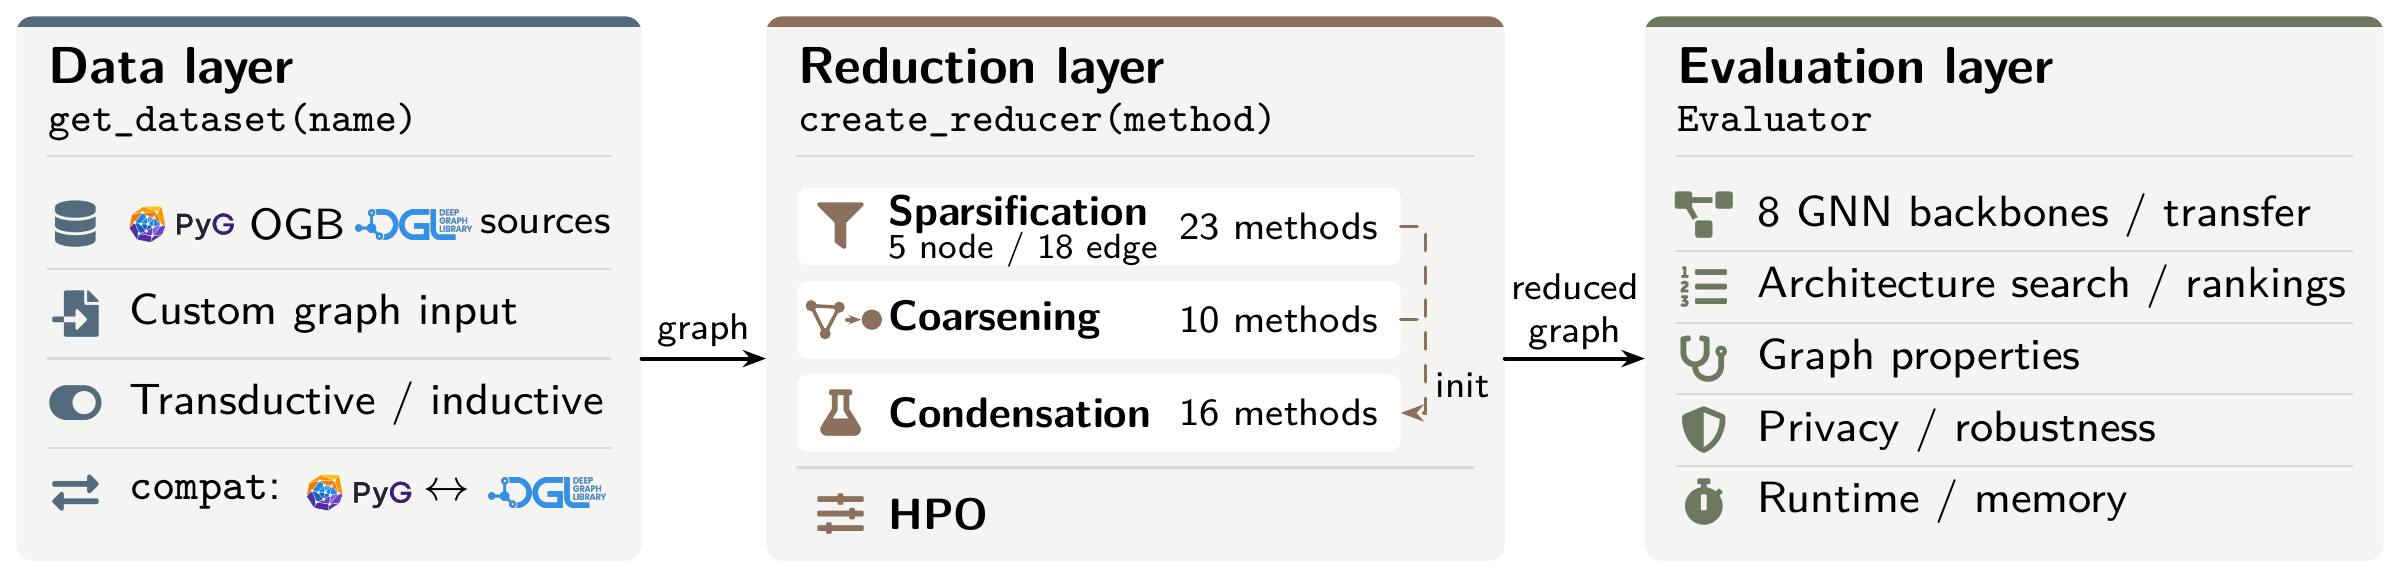
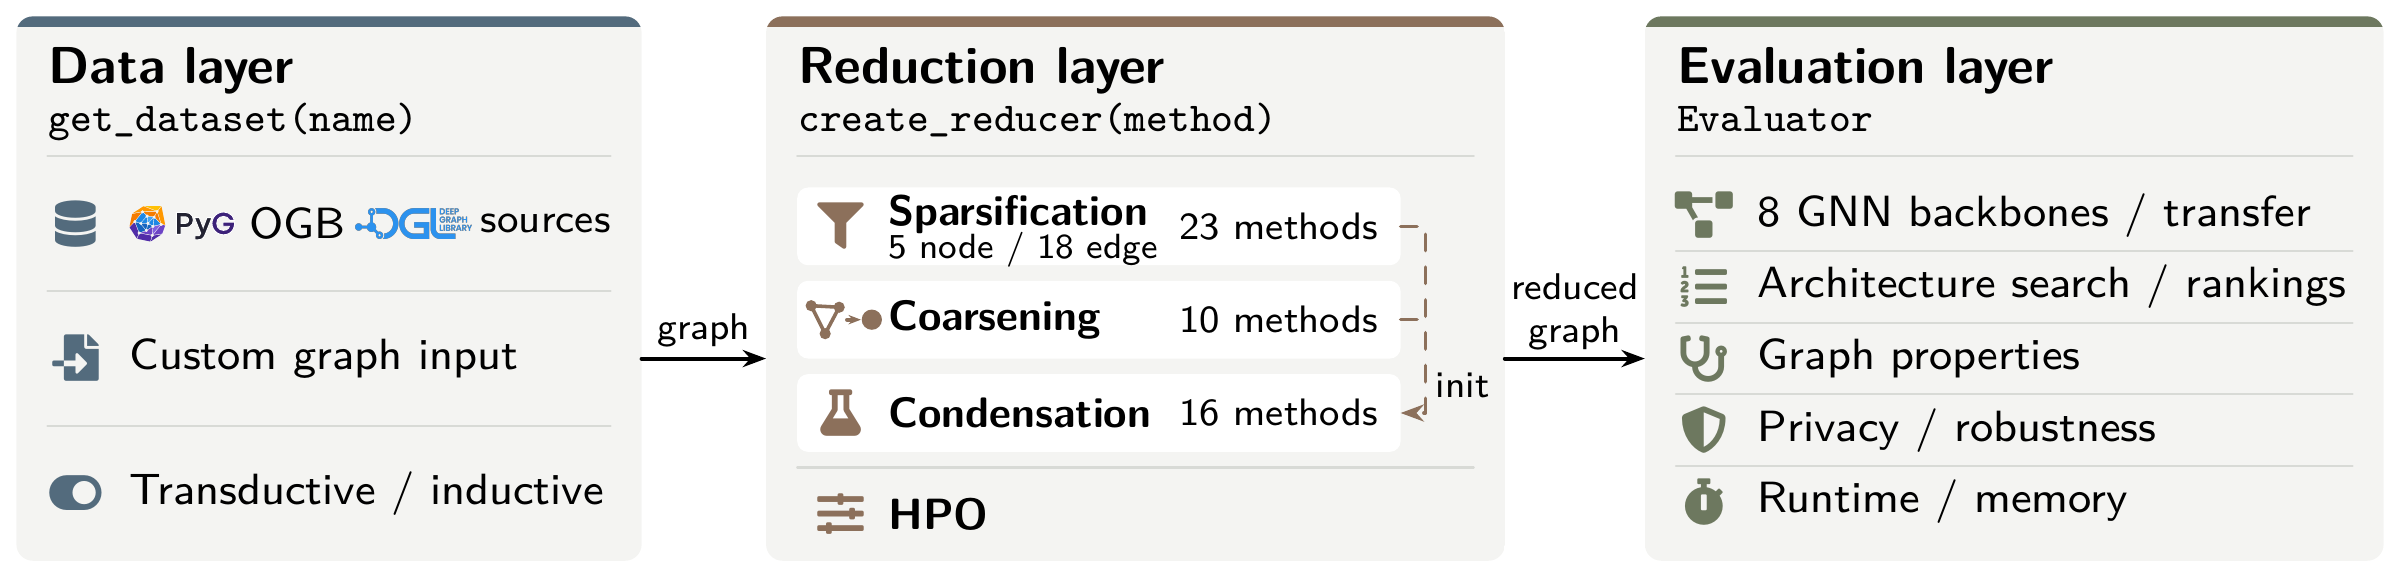
Remove the compatibility row from Figure 1

Changed region(s): [[0.0, 0.4983, 0.25, 0.7785], [0.0312, 0.3426, 0.25, 0.4671], [0.0, 0.8097, 0.25, 0.9031]]

diff --git a/figures/figure1_architecture.tex b/figures/figure1_architecture.tex
@@ -53,25 +53,20 @@
 \node[title] at (10.67,3.07) {Evaluation layer};
 \node[api] at (10.67,2.76) {Evaluator};
 
-% Data services: one pictogram per row on a shared grid.
-\foreach \yy in {1.875,1.3,.725} {
+% Data services: three evenly spaced rows.
+\foreach \yy in {1.7333,.8667} {
   \draw[gsRule,line width=.4pt] (.2,\yy) -- (3.82,\yy);
 }
-\node[ico,text=gsData] at (.38,2.1625) {\faIcon{database}};
+\node[ico,text=gsData] at (.38,2.1667) {\faIcon{database}};
 % Official wordmarks replace framework names; retain their original colors.
-\node[rowtext] at (.72,2.1625) {\includegraphics[width=.68cm]{\gsLogoPath/pyg.pdf}};
-\node[rowtext] at (1.49,2.1625) {OGB};
-\node[rowtext] at (2.17,2.1625) {\includegraphics[width=.75cm]{\gsLogoPath/dgl.png}};
-\node[rowtext,font=\sffamily\fontsize{7.4}{9}\selectfont] at (2.98,2.1625) {sources};
-\node[ico,text=gsData] at (.38,1.5875) {\faIcon{file-import}};
-\node[rowtext] at (.72,1.5875) {Custom graph input};
-\node[ico,text=gsData] at (.38,1.0125) {\faIcon{toggle-on}};
-\node[rowtext] at (.72,1.0125) {Transductive / inductive};
-\node[ico,text=gsData] at (.38,.4375) {\faIcon{exchange-alt}};
-\node[rowtext] at (.72,.4375) {\texttt{compat}:};
-\node[rowtext] at (1.86,.4375) {\includegraphics[width=.68cm]{\gsLogoPath/pyg.pdf}};
-\node[inner sep=0pt] at (2.77,.4375) {$\leftrightarrow$};
-\node[rowtext] at (3.03,.4375) {\includegraphics[width=.75cm]{\gsLogoPath/dgl.png}};
+\node[rowtext] at (.72,2.1667) {\includegraphics[width=.68cm]{\gsLogoPath/pyg.pdf}};
+\node[rowtext] at (1.49,2.1667) {OGB};
+\node[rowtext] at (2.17,2.1667) {\includegraphics[width=.75cm]{\gsLogoPath/dgl.png}};
+\node[rowtext,font=\sffamily\fontsize{7.4}{9}\selectfont] at (2.98,2.1667) {sources};
+\node[ico,text=gsData] at (.38,1.3) {\faIcon{file-import}};
+\node[rowtext] at (.72,1.3) {Custom graph input};
+\node[ico,text=gsData] at (.38,.4333) {\faIcon{toggle-on}};
+\node[rowtext] at (.72,.4333) {Transductive / inductive};
 
 % Reduction families share one interface; node-level reducers can seed condensation.
 \foreach \yy/\label/\count in {2.15/Sparsification/23,1.55/Coarsening/10,.95/Condensation/16} {
